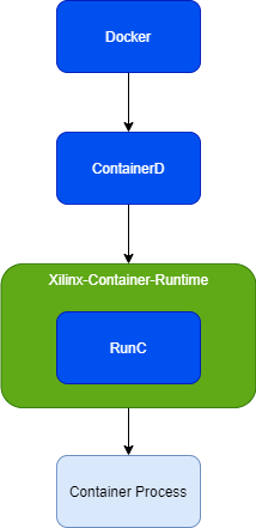
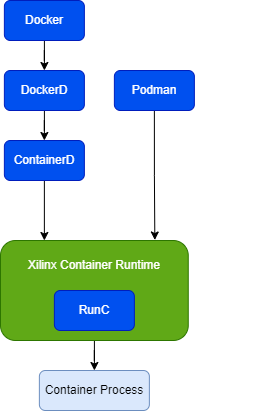
Updated documentation.

diff --git a/docs/singularity.rst b/docs/singularity.rst
@@ -1,7 +1,7 @@
-Integration with Singularity OCI
+Singularity OCI Support
 --------------------------------
 
-Singularity provides OCI runtime support to create OCI compilant container instance. Xilinx container runtime is able to integrate with OCI command to add xilinx devices.
+Singularity provides OCI runtime support to create OCI compilant container instance. Before starting a container, xilinx container runtime is able to modify the OCI specs to add xilinx devices. Here is a example.
 
 Mount an OCI Filesystem Bundle
 ..............................
@@ -12,8 +12,8 @@ Mount an OCI Filesystem Bundle
    sudo singularity oci mount ./xilinx_runtime_base_alveo-2021.1-ubuntu-20.04.sif /var/tmp/xilinx_runtime_base_alveo-2021.1-ubuntu-20.04
 
 
-Modify OCI Configuration
-........................
+Modify OCI Specs
+................
 
 .. code-block:: bash
 

diff --git a/docs/index.rst b/docs/index.rst
@@ -22,10 +22,7 @@
 ************************
 Xilinx Container Runtime
 ************************
-Xilinx-container-runtime is an extension of runc, with modification to add xilinx devices before running containers.
-
-Xilinx Container Runtime Architecture
-=====================================
+Xilinx-container-runtime is an extension of runc, with modification to add xilinx devices before running containers. Since it is a runC compliant runtime, xilinx container runtime can be integrate with various contianer orchestrators, including docker and podman.
 
 .. image:: ./images/XCRT-Arch.png
 

diff --git a/README.md b/README.md
@@ -47,7 +47,7 @@ By running xilinx-container-runtime, it is required to have runC installed. If d
 
 ## Integrate with docker
 
-Update or create /etc/docker/daemon.json as below:
+Docker allows users to add custom runtime by editing /etc/docker/daemon.json in "runtimes" part. Below is a code snap to add xilinx container runtime. 
 
     {
         "runtimes": {
